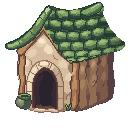
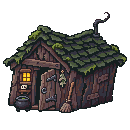
Witch hut: ChatGPT's second try
Dark warped planks, a sagging mossy roof, the hooked chimney, a half-open door,
the cauldron, herbs and a broom; its one window boxed for the night lights.
The first try is kept as witch_hut_try1.png.

Claude-Session: https://claude.ai/code/session_01A828hBfjrXjW9R9AZLyu9s

diff --git a/tools/window_art.py b/tools/window_art.py
@@ -78,6 +78,7 @@ BOXES = {"thatched_cottage": [(60, 96, 0, 96)],
          "house": [(76, 98, 28, 42), (76, 98, 74, 92)],
          "adobe_house_tall": [(48, 63, 40, 48), (48, 63, 64, 73)],
          "swamp_stilt_hut": [(54, 72, 33, 41)],
+         "witch_hut": [(72, 81, 22, 30)],
          "toymaker_workshop": [(63, 80, 30, 44), (64, 76, 69, 77)],   # its windows, not the clock's face
          "warrior_guild": [(112, 124, 50, 104)],
          "emerald_spire": [(100, 109, 80, 92), (124, 137, 74, 100), (148, 160, 50, 124)]}

diff --git a/docs/ai-sprite-test/buildings-1to1/HANDOVER.md b/docs/ai-sprite-test/buildings-1to1/HANDOVER.md
@@ -72,6 +72,8 @@ and add "Continue from number N." Bring the 1× PNGs back named by their id, zip
 (new `BOXES` for the house, the tall adobe house and the stilt hut; the adobe house, candy cottage and fisher's
 shack have none), the pagoda's and stilt hut's lanterns re-rigged, the forge's fire re-boxed, the inn's and snow
 cabin's chimneys moved, nothing left to deslab. Left as they are: the house's three roof recolours keep a few
+orange specks on the roof's lightest tiles. The witch hut's first try lost its character (pale stone, a black hole
+for a door); its second (`witch_hut_redo/`, 2026-11-27) is in, the first kept as `witch_hut_try1.png`. Still: the house's three roof recolours keep a few
 orange specks on the roof's lightest tiles (no hue window takes them without the door); `pixel_style.py`'s
 building bands, calibrated on RD's 96-pixel drawings, fail several of them narrowly (`form_relief` most): recalibrate
 once all four batches are in.
